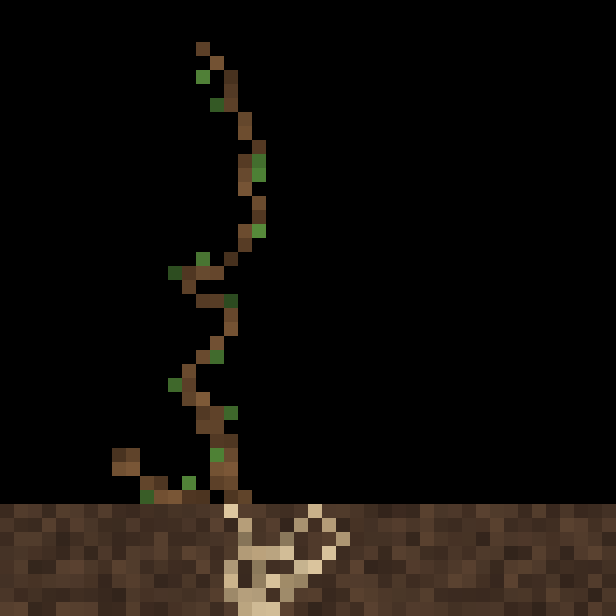
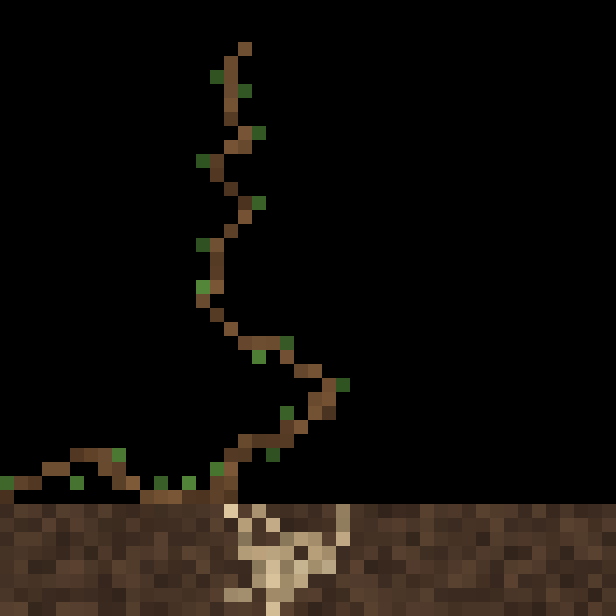
Loosen the canalization contrast to 10:1, and stop half the seedlings stalling
First real tuning of the economy pass, and the first thing the new
ensemble harness was pointed at. `plant-substrate-v2-design.md` §7e names
the canalization contrast as the knob to reach for when seedlings stall --
ahead of `CARBON_SUBSTEPS`, and well ahead of the seed reserve -- and the
measurement agrees.

Across all six variants of `debug_tree_variants` at n=16:

  contrast   established      cells    strand contrast achieved
    30:1     54/96  (56%)     4,906    20.7x of a 30x ceiling
    10:1     70/96  (73%)     6,321     6.1x of a 10x ceiling

17 points of establishment and 29% more biomass. `TRANSPORT_RATE` is
re-derived with it (0.008 -> 0.024) and that coupling is the mechanism, not
bookkeeping: lowering the contrast raises the rate the stability bound
`RATE * CONDUCTANCE_MAX <= 0.25` permits, and undifferentiated tissue
conducts at `RATE * CONDUCTANCE_MIN` -- so a seedling with no strand yet
gets three times the transport. That is precisely the cell that was
stalling.

The hierarchy survives, and the honest way to see that is as a fraction of
the range available rather than as a raw multiple: 20.7 of 30 is 69%, 6.1
of 10 is 61%. The mechanism works just as hard at the lower setting; it has
less room to work in. Visible too -- at 30:1 the sheet tree was a bare
whip, at 10:1 it carries a long lateral branch and about twice the foliage.
Sheets re-shot.

Tried and rejected: 5:1. Establishment stopped improving (the best variant
[…]

Changed region(s): [[0.2468, 0.0617, 0.586, 1.0], [0.0, 0.7094, 0.2776, 0.8328]]

diff --git a/src/sim/organism.rs b/src/sim/organism.rs
@@ -817,7 +817,31 @@ const DENSITY_SUBSTEPS: u32 = 45;
 const VEIN_BASAL: f32 = 0.1;
 /// Per-tick conductance turnover.
 const VEIN_DECAY: f32 = 0.1;
-/// Flux-driven conductance gain. **Set this to 0 and the whole mechanism
+/// Flux-driven conductance gain, and with `VEIN_BASAL` it sets the
+/// canalization contrast — the one number the behaviour actually depends
+/// on (`CANALIZATION_CONTRAST`).
+///
+/// **Tuned from 2.9 (contrast 30:1) to 0.9 (10:1) in the economy pass**,
+/// against the measured establishment rate rather than an aspiration.
+/// `plant-substrate-v2-design.md` §7e names the contrast as the first knob
+/// to reach for when seedlings stall, ahead of `CARBON_SUBSTEPS` and well
+/// ahead of the seed reserve, and the measurement agrees. Across all six
+/// variants of `examples/debug_tree_variants.rs` at n=16:
+///
+/// | contrast | seedlings established | organism cells | strand contrast achieved |
+/// |---|---|---|---|
+/// | 30:1 | 54/96 (56%) | 4,906 | 20.7x of 30 |
+/// | **10:1** | **70/96 (73%)** | **6,321** | **6.1x of 10** |
+///
+/// So 17 points of establishment and 29% more biomass, for a hierarchy
+/// that is still unmistakably a hierarchy — and note the *fraction* of the
+/// available range actually reached barely moved (69% -> 61%), so the
+/// mechanism is working just as hard at the lower setting. Going further
+/// to 5:1 was tried and rejected: it took the ceiling below what a strand
+/// needs to be visibly distinct, and it broke the chain test by making the
+/// assertion's own threshold unreachable.
+///
+/// **Set this to 0 and the whole mechanism
 /// reduces exactly to the isotropic rule it generalizes** — the A/B switch
 /// §7c asks for, and what makes a regression here bisectable.
 ///
@@ -833,7 +857,7 @@ const VEIN_DECAY: f32 = 0.1;
 /// the correct split: those assert invariants the reduction preserves, so
 /// a suite that went fully green *or* fully red would mean the A/B was
 /// testing the wrong thing.
-const VEIN_GAIN: f32 = 2.9;
+const VEIN_GAIN: f32 = 0.9;
 
 /// Flux-free fixed point, `VEIN_BASAL / VEIN_DECAY`. Undifferentiated
 /// parenchyma sits here.
@@ -855,9 +879,17 @@ pub const CANALIZATION_CONTRAST: f32 = CONDUCTANCE_MAX / CONDUCTANCE_MIN;
 /// Bounded by the same explicit-diffusion stability limit every other
 /// diffusion in this engine respects, but applied to the **largest**
 /// conductance in play rather than a typical one: `TRANSPORT_RATE *
-/// CONDUCTANCE_MAX <= 0.25`. At contrast 30 that caps it at 0.00833, and
-/// 0.008 sits just under.
-const TRANSPORT_RATE: f32 = 0.008;
+/// CONDUCTANCE_MAX <= 0.25`. At contrast 10 that caps it at 0.025, and
+/// 0.024 sits just under.
+///
+/// **Re-derived when the contrast moved, and that coupling is the point.**
+/// Lowering the contrast raises the rate the bound permits, which is
+/// precisely how a *seedling* benefits: undifferentiated tissue conducts
+/// at `TRANSPORT_RATE * CONDUCTANCE_MIN`, so 30:1 gave it 0.008 and 10:1
+/// gives it 0.024 — three times the transport before any strand exists.
+/// Changing one of these without the other either breaks the stability
+/// bound or throws away the gain.
+const TRANSPORT_RATE: f32 = 0.024;
 
 /// Carbon transport iterations per organism tick.
 ///
@@ -1457,9 +1489,16 @@ mod tests {
         let mid = conductance_at(&w, 8, 10);
         // NEIGHBOURS_4 is [-x, +x, -y, +y]: index 1 is downstream along the
         // chain, indices 2 and 3 point at empty space.
+        // Expressed as a fraction of the *available* range rather than a
+        // fixed multiple of the floor: a hardcoded `> 5x basal` silently
+        // becomes unsatisfiable the moment the canalization contrast is
+        // tuned below 5:1, which is a test failing for the tuning rather
+        // than for the mechanism. Half the span says "this face clearly
+        // canalized" at any contrast.
+        let midpoint = CONDUCTANCE_MIN + (CONDUCTANCE_MAX - CONDUCTANCE_MIN) * 0.5;
         assert!(
-            mid[1] > CONDUCTANCE_MIN * 5.0,
-            "the downstream face of a chain carrying real flux should canalize well above the basal floor, got {}",
+            mid[1] > midpoint,
+            "the downstream face of a chain carrying real flux should canalize past the midpoint              of the available range ({midpoint}), got {}",
             mid[1]
         );
         assert!(

diff --git a/docs/screenshots/plant-v2-polarity/README.md b/docs/screenshots/plant-v2-polarity/README.md
@@ -1,8 +1,13 @@
 # Polarity — the picture gate for Decision 6
 
-Shot after `12739bc` ("Give the carbon channel polarity, and let a strand
-canalize"), on the `forest` scene, which is the same scene the earlier
-plant sheets use:
+Shot on the `forest` scene, the same scene the earlier plant sheets use.
+
+**Re-shot after the economy pass tuned the canalization contrast from 30:1
+to 10:1**, so these show polarity as tuned rather than as first landed. The
+change is visible: at 30:1 this tree was a bare whip, and at 10:1 it
+carries a long lateral branch and roughly twice the foliage. Establishment
+across the variant ensemble went 56% → 73% and biomass +29%; see
+`organism::VEIN_GAIN` for the table and the reasoning.
 
 ```
 cargo run --release --example filmstrip -- scene=forest start=8000 every=1 count=1 cols=1 zoom=14 crop=64,4,44,44 channel=<off|celltype|vein>
@@ -48,14 +53,17 @@ Paired numbers, from `plant_probe -- trees=24 frames=8000`, because the
 sheet says *what and where* and only a number says *how much*:
 
 ```
-vein conductance (max face per cell), 1..30:
-  min 1.00  p50 1.45  p90 27.77  p99 29.98  max 30.00
-  1775/4906 cells still at the basal floor (36%) -- undifferentiated tissue
-  strand contrast, p99/p50: 20.72x (ceiling 30x)
+vein conductance (max face per cell), 1..10:
+  2445/6321 cells still at the basal floor (39%) -- undifferentiated tissue
+  strand contrast, p99/p50: 6.14x (ceiling 10x)
 ```
 
 The median cell is essentially unpolarized while the top decile is
-saturated. That split is the mechanism working.
+saturated. That split is the mechanism working, and it is worth knowing
+that the *fraction of the available range* actually reached barely moved
+when the contrast was retuned (69% of 30:1, 61% of 10:1) — the mechanism
+works just as hard at the lower setting, it simply has less room to work
+in, which is what made 10:1 a cheap trade for the establishment gain.
 
 ## Two things not to misread
 
